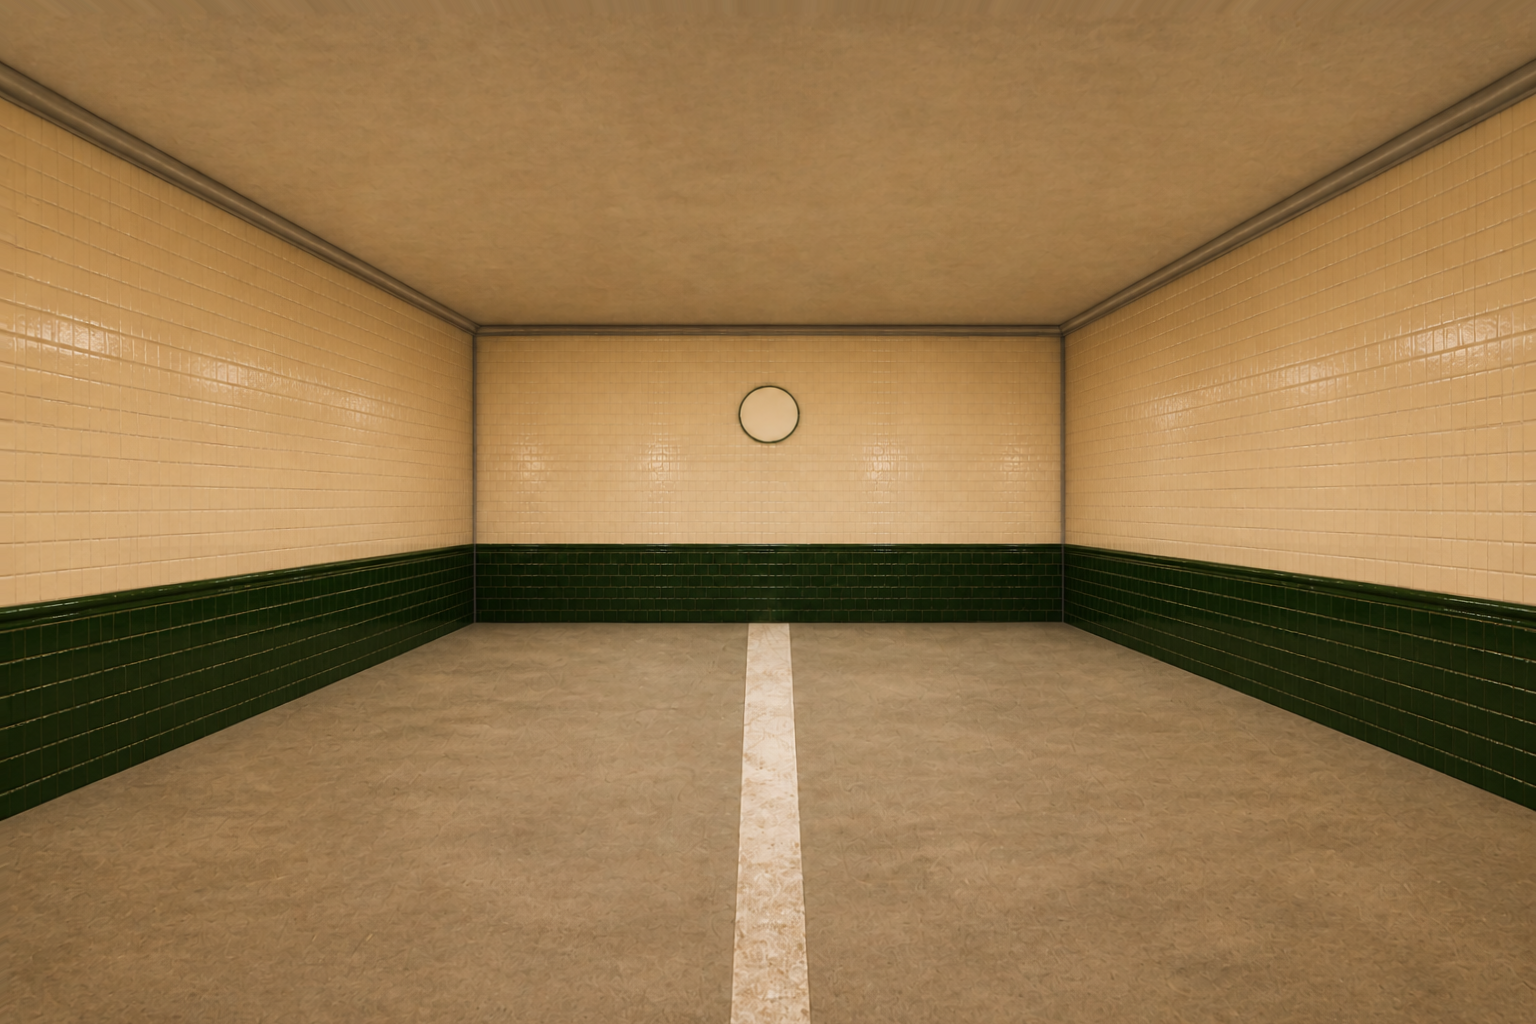
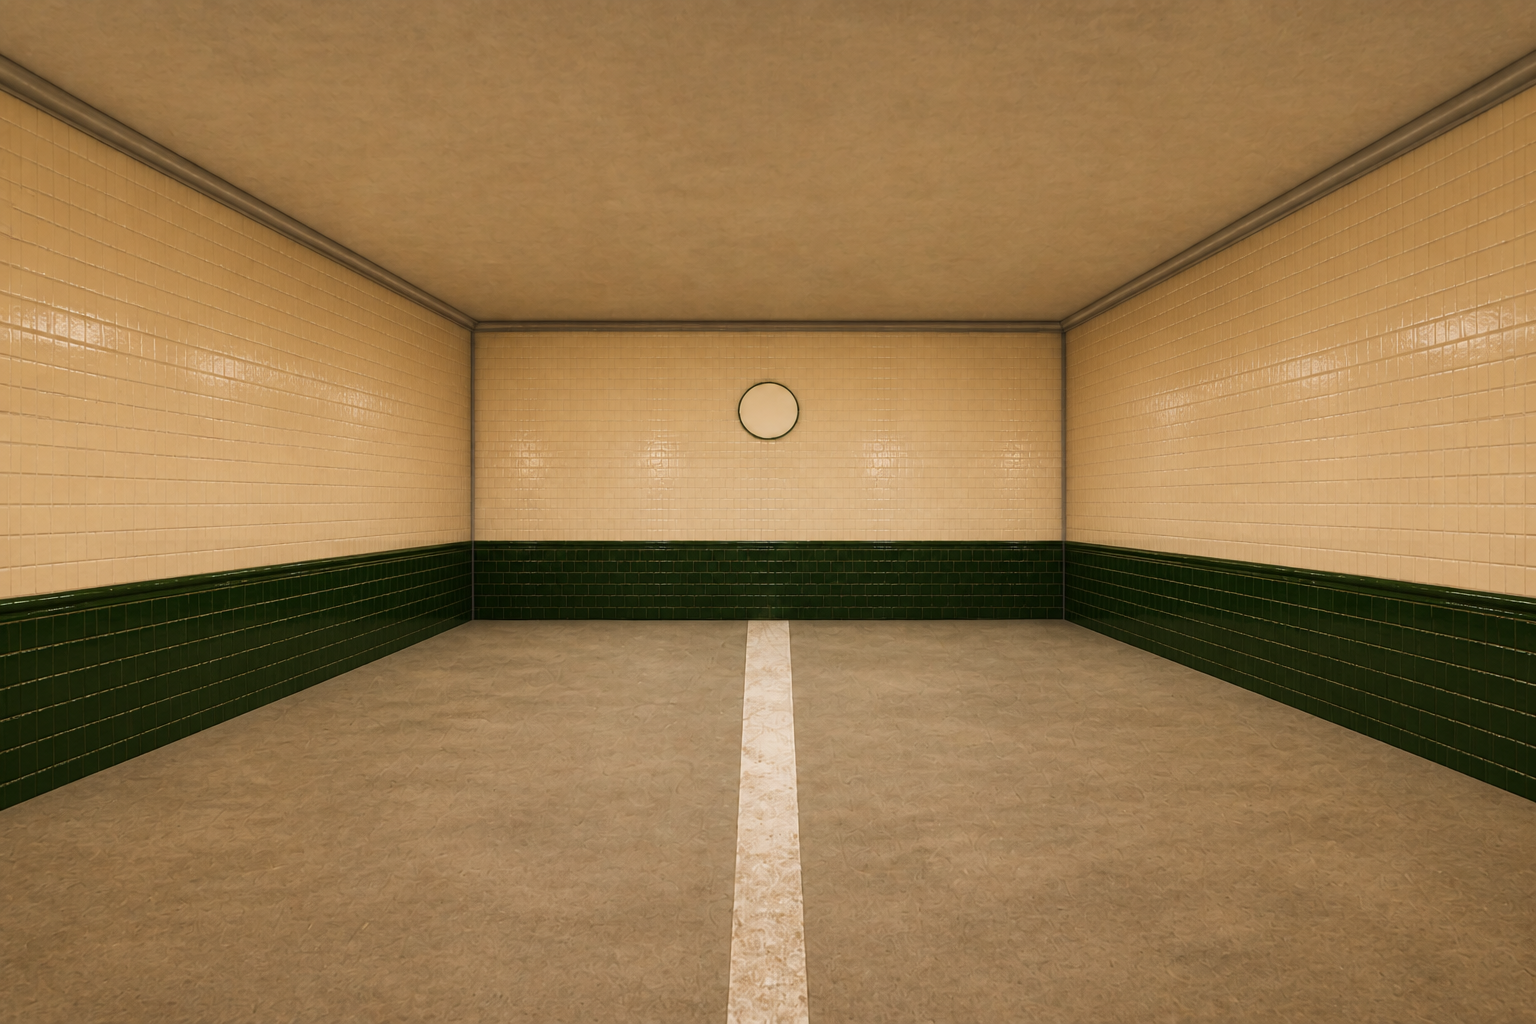
VERIFIER-RAW clause (Kabe: without warping): raw promotion under the uniform verifier; E landed sha-identical to its roll
Claude-Session: https://claude.ai/code/session_01GC1AH66NQ1uRMsBFmesias

diff --git a/backdrops/baked.js b/backdrops/baked.js
@@ -77,7 +77,7 @@
 //   noodle_bar/N: 2.31 MB of PNG -> 455 kB of JPEG (q92); channels move by 1.4597 on average, 14 at worst, of 255.
 //   noodle_bar/S: 2.00 MB of PNG -> 393 kB of JPEG (q92); channels move by 1.1475 on average, 13 at worst, of 255.
 //   noodle_bar/W: 2.52 MB of PNG -> 495 kB of JPEG (q92); channels move by 1.6273 on average, 17 at worst, of 255.
-//   platform/E: 1.77 MB of PNG -> 320 kB of JPEG (q92); channels move by 1.0282 on average, 15 at worst, of 255.
+//   platform/E: 2.19 MB of PNG -> 354 kB of JPEG (q92); channels move by 1.265 on average, 19 at worst, of 255.
 //   platform/N: 1.81 MB of PNG -> 375 kB of JPEG (q92); channels move by 1.2172 on average, 15 at worst, of 255.
 //   platform/S: 1.84 MB of PNG -> 367 kB of JPEG (q92); channels move by 1.2086 on average, 15 at worst, of 255.
 //   platform/W: 2.55 MB of PNG -> 425 kB of JPEG (q92); channels move by 1.6499 on average, 19 at worst, of 255.
@@ -112,7 +112,7 @@
 //   ward/S: 2.08 MB of PNG -> 243 kB of JPEG (q92); channels move by 1.1536 on average, 13 at worst, of 255.
 //   ward/W: 1.52 MB of PNG -> 209 kB of JPEG (q92); channels move by 0.8841 on average, 12 at worst, of 255.
 window.HOLO_BACKDROPS = {
-  fp: "272f3333",
+  fp: "8d89efc6",
   dir: "backdrops/served/",
   paintings: {
   "back_office/E": { file: "back_office/E.jpg", bytes: 290170 },
@@ -176,7 +176,7 @@ window.HOLO_BACKDROPS = {
   "noodle_bar/N": { file: "noodle_bar/N.jpg", bytes: 454691 },
   "noodle_bar/S": { file: "noodle_bar/S.jpg", bytes: 392725 },
   "noodle_bar/W": { file: "noodle_bar/W.jpg", bytes: 494703 },
-  "platform/E": { file: "platform/E.jpg", bytes: 319888 },
+  "platform/E": { file: "platform/E.jpg", bytes: 353827 },
   "platform/N": { file: "platform/N.jpg", bytes: 375447 },
   "platform/S": { file: "platform/S.jpg", bytes: 366930 },
   "platform/W": { file: "platform/W.jpg", bytes: 424905 },

diff --git a/fixtures/underground-2/fixture.js b/fixtures/underground-2/fixture.js
@@ -16,7 +16,7 @@
 window.HOLO_FIXTURES = window.HOLO_FIXTURES || {};
 window.HOLO_FIXTURES["underground-2"] = {
   id: "underground-2",
-  fp: "1e830f95",
+  fp: "84015222",
   world: {
   "schema": "holo-emitter/0.1",
   "locations": [
@@ -1680,7 +1680,7 @@ window.HOLO_FIXTURES["underground-2"] = {
     "corner_x0_px": 475.4285714285714,
     "corner_x1_px": 1060.5714285714287,
     "storey_height_m": 3.4,
-    "camera_id": "measured:backdrops/source-warped/platform-E/warped.png",
+    "camera_id": "measured:backdrops/source/platform-E/row23-7ac3b327.png",
     "camera_reference": "ruled",
     "measured_round": "meshwarp",
     "instrument": "c3208bf9b05d",
@@ -1698,8 +1698,8 @@ window.HOLO_FIXTURES["underground-2"] = {
     "focal_px": 849.3,
     "nearest_floor_m": 2.433,
     "measured_room": {
-      "storey_height_m": 3.798,
-      "wall_width_m": 7.859,
+      "storey_height_m": 3.811,
+      "wall_width_m": 7.899,
       "ruled_storey_height_m": 3.4,
       "ruled_wall_width_m": 6.4,
       "warp": {
@@ -1737,10 +1737,10 @@ window.HOLO_FIXTURES["underground-2"] = {
         "revealed_px": 24956,
         "remeasured": {
           "px_per_m_at_wall": 75.833,
-          "floor_line_y": 0.608398,
-          "corner_x0_px": 470,
-          "corner_x1_px": 1066,
-          "corner_scale_px_per_m": 93.125
+          "floor_line_y": 0.605469,
+          "corner_x0_px": 468,
+          "corner_x1_px": 1067,
+          "corner_scale_px_per_m": 93.594
         },
         "warped_from": "backdrops/source/platform-E/row23-7ac3b327.png",
         "tool": "design/plan-draft/measured/mesh_warp.py"

diff --git a/design/plan-draft/measured/row23_run.py b/design/plan-draft/measured/row23_run.py
@@ -1342,6 +1342,41 @@ def _exit_warp(key, e, st, cand_rel, side, ref, fam, reading=None):
                         "clause": rec.get("clause"), "why": (rec.get("why") or "")[:300]})
         return False, (rec.get("why") or "the warp refused this frame"), rec, clause
 
+    # [Kabe, 2026-09-01, verbatim ruling] "work with the best process we have
+    # WITHOUT WARPING and finding the wins" - THE VERIFIER-RAW CLAUSE: when the
+    # uniform measurement reads this roll within a hair of declared (scale
+    # within 2%, reveal <= 3%), the RAW, UNTOUCHED candidate promotes with the
+    # verifier record attached. The warp math measured; no pixel moved. The
+    # painting the room shows is exactly the painting the painter made.
+    _u = rec.get("uniform") or {}
+    _us = _u.get("scale")
+    _urev = rec.get("revealed_fraction") or 0.0
+    if isinstance(_us, (int, float)) and abs(_us - 1.0) <= 0.02 and _urev <= 0.03:
+        import row35_snap as _snap_raw
+        _e2, _side2, _cfg2, _ref2, _decl2 = _snap_raw.wall_context(key)
+        reading_raw = _snap_raw.measure(os.path.join(ROOT, cand_rel), side, _cfg2, ref)
+        rec["verifier_raw"] = dict(scale=_us, revealed_fraction=_urev)
+        rec["after"] = dict(camera_verdict=reading_raw.get("verdict"),
+                            delta_focal_pct=reading_raw.get("delta_focal_pct"),
+                            delta_eye_pct=reading_raw.get("delta_eye_pct"),
+                            hold_family=(reading_raw.get("_promotion") or {})
+                            .get("hold_family"))
+        _png_raw, _rec_path_raw = _warped_frame(key)
+        mesh_warp._emit(_rec_path_raw, rec)
+        doc_raw, why_raw = _warp_document(key, cand_rel, reading_raw, side, ref, rec)
+        if doc_raw is not None:
+            ok_raw, why_raw2 = promote_document(key, cand_rel, WARP_ROUND,
+                                                camera_source="declared")
+            timings.record("exit.warp", _t, time.time(), key,
+                           {"candidate": cand_rel, "warped": False,
+                            "verifier_raw": True, "promoted": ok_raw,
+                            "why": (why_raw2 or "")[:300] or None})
+            if ok_raw:
+                return True, ("verifier-raw: the untouched roll reads %.4f "
+                              "scale, %.1f%% reveal - promoted as painted"
+                              % (_us, _urev * 100)), rec, None
+        # a document refusal falls through to the ordinary warp path below
+
     png, rec_path = _warped_frame(key)
     mesh_warp.write_png(png, out)
     rec.pop("revealed_mask", None)

diff --git a/design/registry.md b/design/registry.md
@@ -216,3 +216,16 @@ re-select. platform/E landed from a roll already on disk: 7ac3b327 at
 0.9955/1.6%, zero additional rolls after selection. Rolling-until-pass,
 measured corrections against the attractor, and mechanical pre-fill are
 retired as losing steps.
+
+
+## VERIFIER-RAW — the no-warp acceptance (2026-09-01, Kabe's ruling)
+
+[Kabe, verbatim]: "I need you to intelligently work with the best process we
+have without warping and finding the wins to minimize retries."
+
+The warp may MEASURE, never move pixels. When the uniform verifier reads a
+roll within 2% scale and 3% reveal of declared, the RAW candidate promotes as
+painted, verifier record attached (platform/E landed this way: store bytes ==
+roll 7ac3b327 bytes, sha-identical). The warped-pixel promotions are retired.
+Acceptance dials are the Captain's: at 2%/3%, tonight's 18-roll sample yields
+1 raw-true roll (~18/wall); at 2%/5%, 3 rolls (~6/wall).
